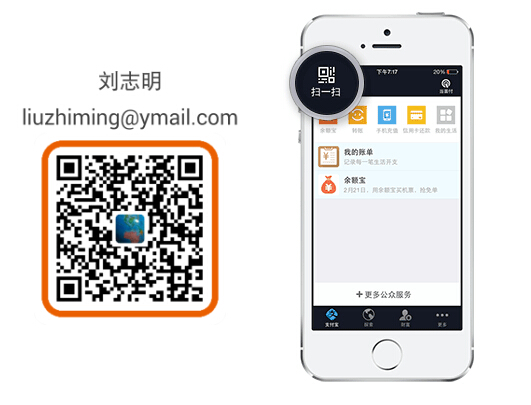
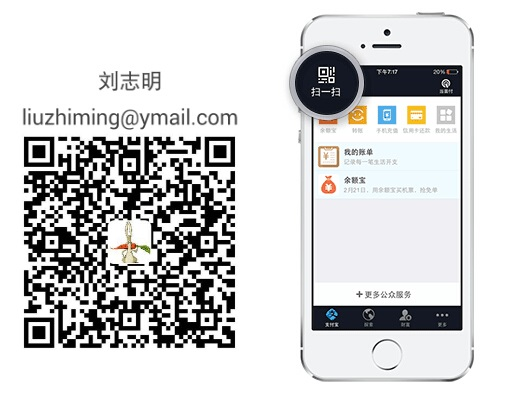
READE update

diff --git a/README.md b/README.md
@@ -7,6 +7,11 @@ TuShare是实现对股票/期货等金融数据从**数据采集**、**清洗加
 
 ![](http://tushare.waditu.com/_images/main_pic_min.png)
 
+欢迎关注扫描TuShare的微信公众号“挖地兔”，更多资源和信息与您分享：
+
+![](http://tushare.waditu.com/_images/8.jpg)
+
+
 Dependencies
 =========
 python 2.x/3.x   
